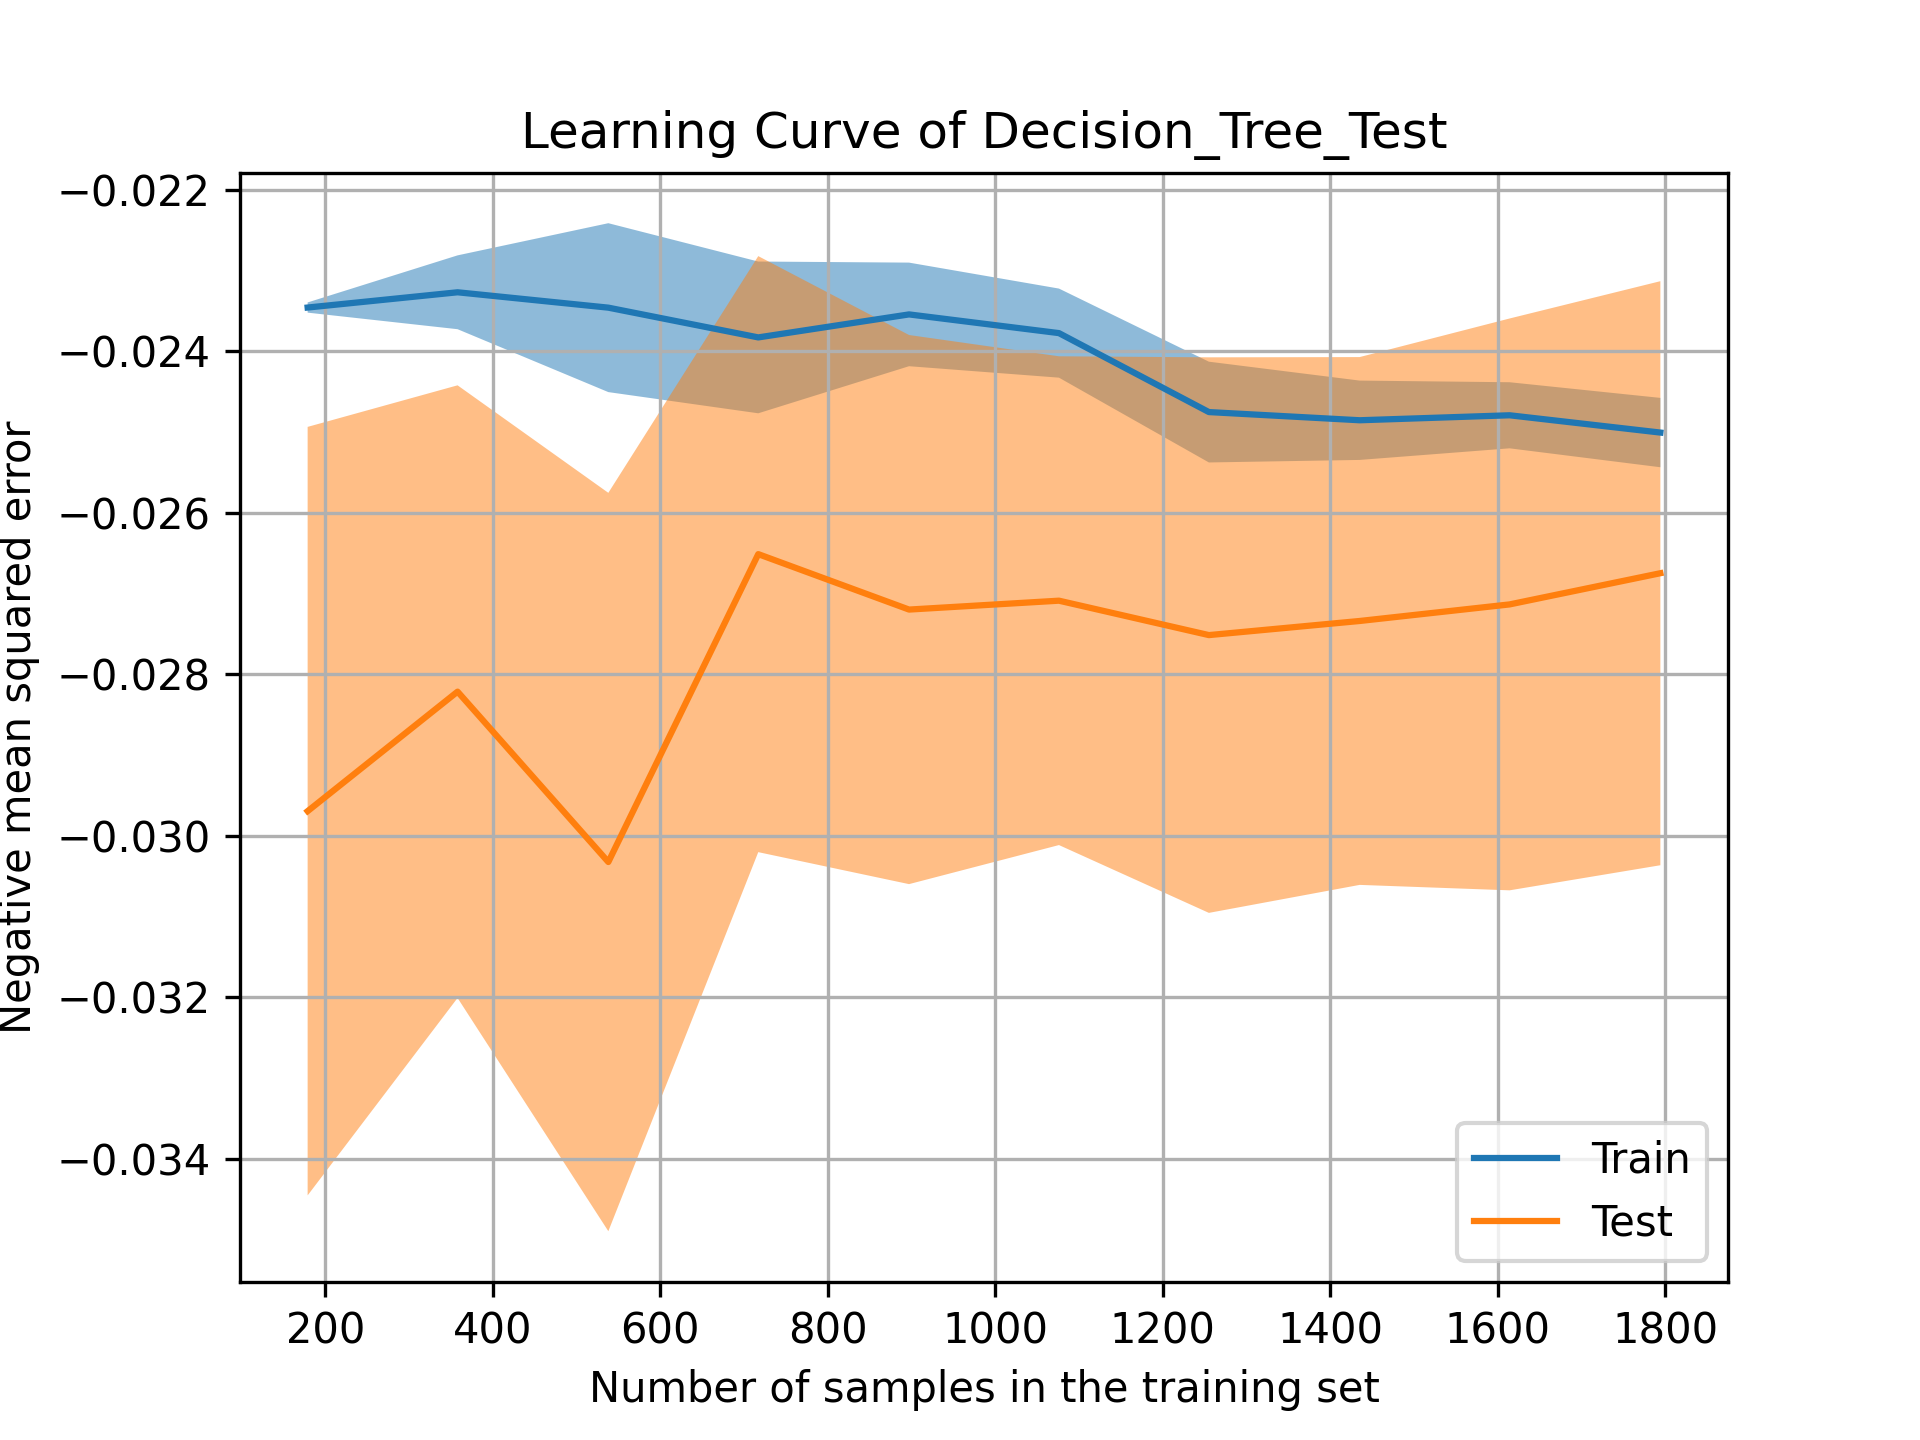
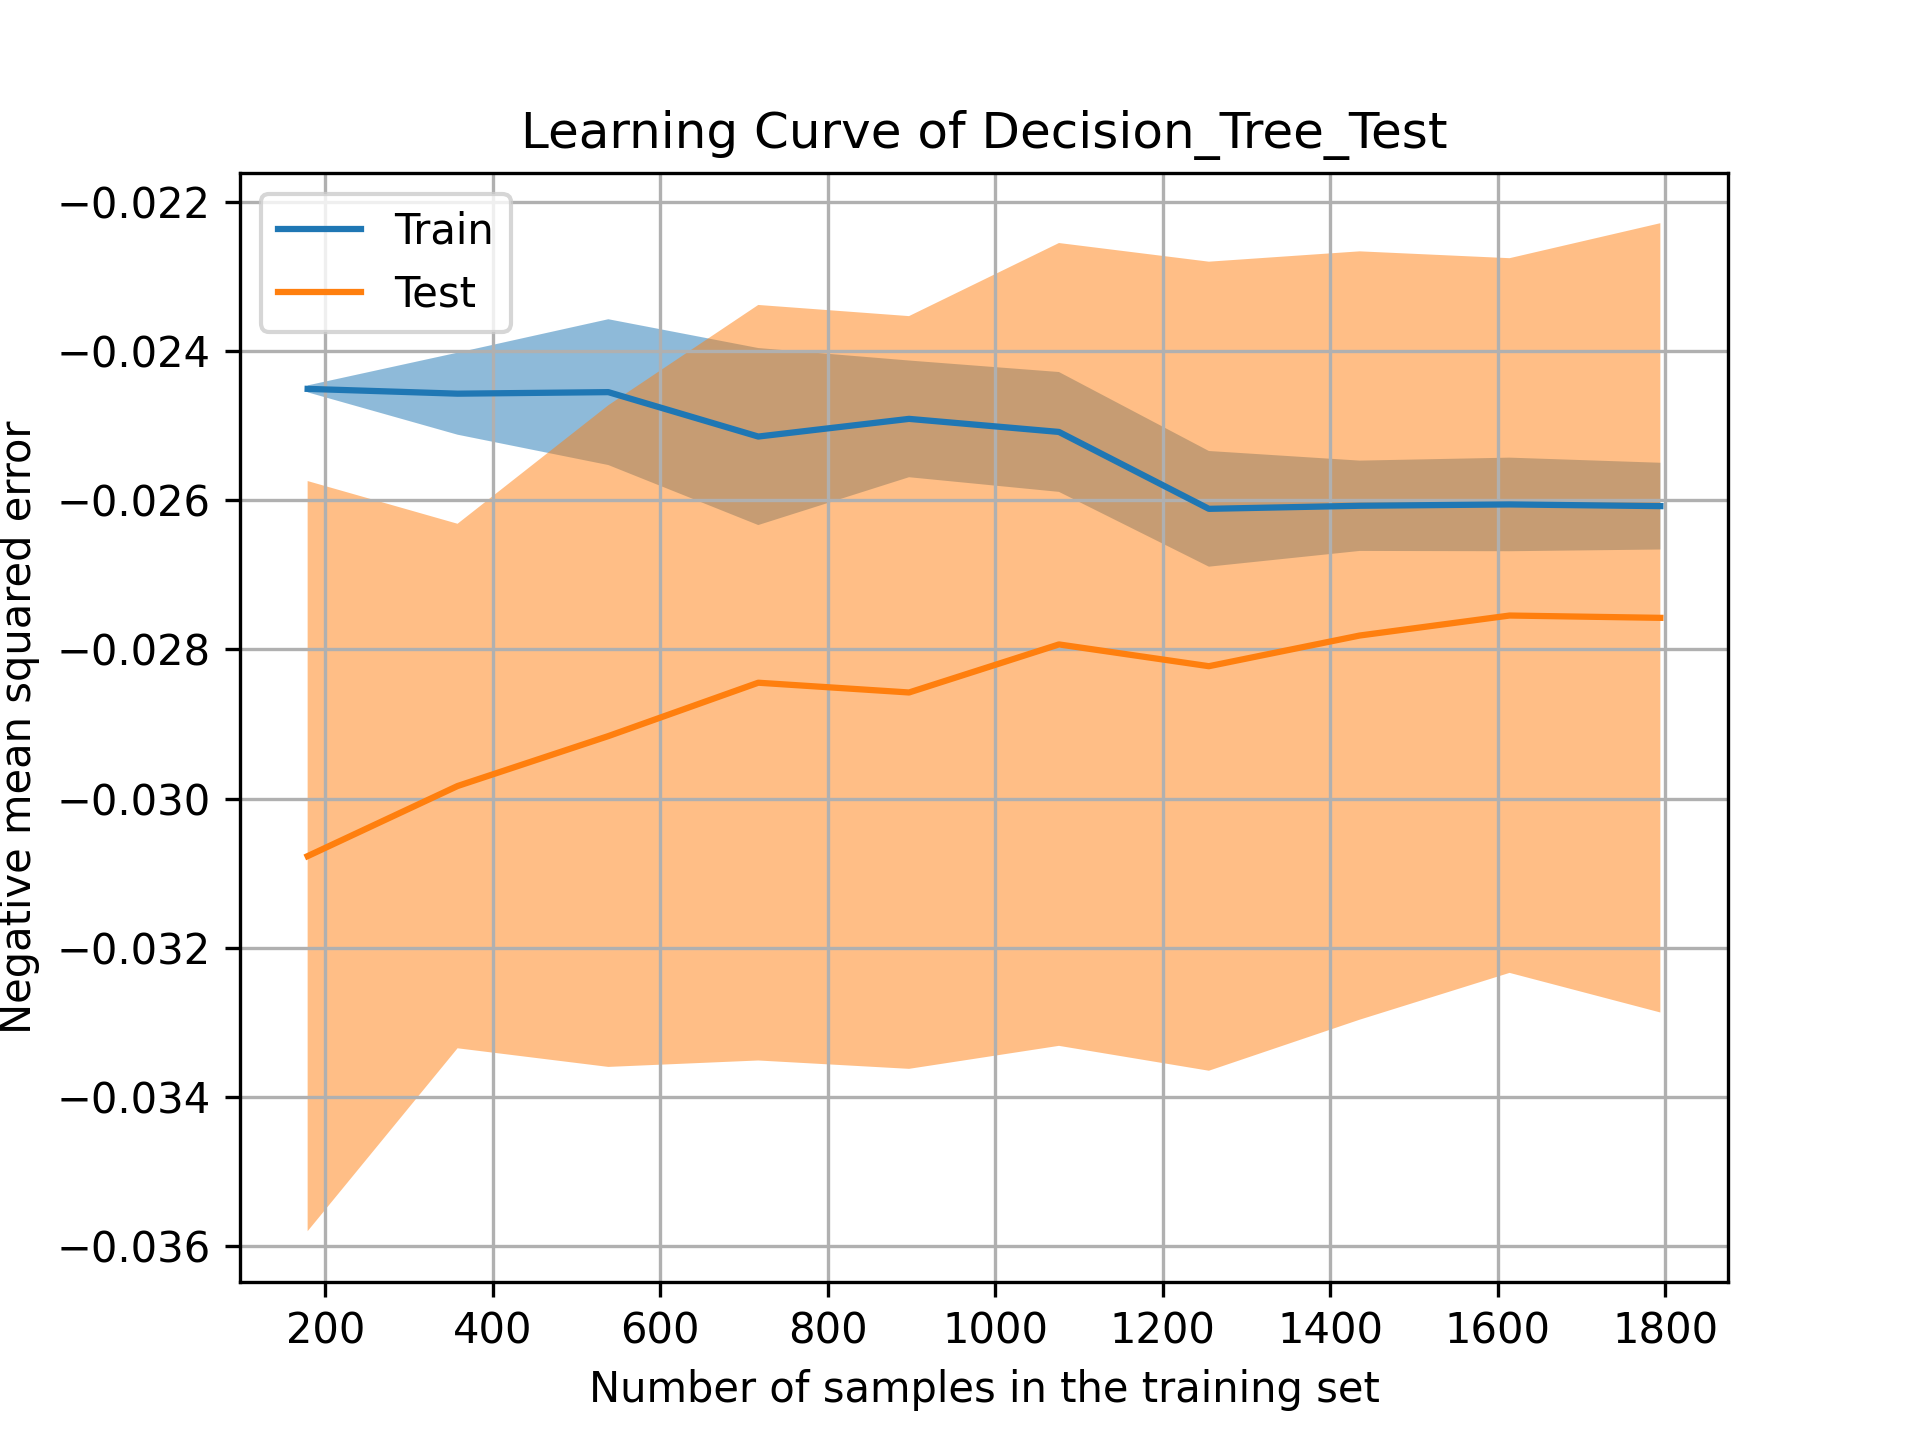
Change part of decision tree

diff --git a/decision_tree.py b/decision_tree.py
@@ -8,7 +8,7 @@ if __name__ == "__main__":
 
     # Define the parameter grid for tuning
     param_grid = {
-        # 'criterion': ['squared_error', 'friedman_mse', 'absolute_error'],  
+        'criterion': ['squared_error', 'friedman_mse', 'absolute_error'],  
         'max_depth': [2], # [None, 5, 10, 20]
         'min_samples_split': [4], #[8, 9, 10]
         'min_samples_leaf': [3], # [2, 3, 4]
